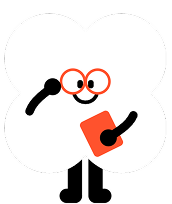
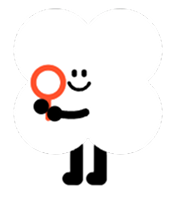
feat: 캐릭터 이미지 변경 및 추가

diff --git a/src/components/report/StampBoard.tsx b/src/components/report/StampBoard.tsx
@@ -1,5 +1,5 @@
 import * as styled from '@components/report/StampBoard.styles';
-import drivingCharacter from '@/assets/images/driving-charactar.png';
+import reportCharacter from '@/assets/images/report-charactar.png';
 import stampImg from '@/assets/images/stamp.png';
 
 export default function StampBoard() {
@@ -16,7 +16,7 @@ export default function StampBoard() {
             나만의 리포트가 생성됩니다! 🎉
           </styled.Title>
         </styled.TitleBox>
-        <styled.Character src={drivingCharacter} alt=" 캐릭터"></styled.Character>
+        <styled.Character src={reportCharacter} alt=" 캐릭터"></styled.Character>
       </styled.TopSection>
       <styled.BottomSection>
         <styled.StatusHeader>
